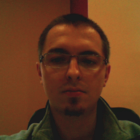
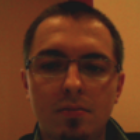
updated photos

diff --git a/index.html b/index.html
@@ -503,7 +503,7 @@
 					<!-- Start Members List -->
 					<ul class="testimonials">
 						<li class="current">
-							<a data-testimonial="software developer, python + js" data-author="Bartłomiej"><img src="/images/guys/bartlomiejborzucki.jpg" alt=""></a>
+							<a data-testimonial="software developer, python + js" data-author="Bartłomiej"><img src="/images/guys/bartlomiejborzucki.png" alt=""></a>
 						</li>
 						<li>
 							<a data-testimonial="trainer, front-end developer, js" data-author="Bartosz"><img src="/images/guys/bartoszkrupa.jpg" alt=""></a>
@@ -521,7 +521,7 @@
 							<a data-testimonial="software developer, python + js" data-author="Marek"><img src="/images/guys/firemark.jpg" alt=""></a>
 						</li>
 						<li>
-							<a data-testimonial="front-end developer, js" data-author="Grzegorz"><img src="/images/guys/grzegorzjudas.jpg" alt=""></a>
+							<a data-testimonial="front-end developer, js" data-author="Grzegorz"><img src="/images/guys/grzegorzjudas.png" alt=""></a>
 						</li>
 						<li>
 							<a data-testimonial="front-end developer, js" data-author="Jakub"><img src="/images/guys/jakubsawicki.png" alt=""></a>
@@ -532,15 +532,15 @@
 							</a>
 						</li>
 						<li>
-							<a data-testimonial="video, director" data-author="Paweł"><img src="/images/guys/pawelorlicz.jpg" alt=""></a>
+							<a data-testimonial="video, director" data-author="Paweł"><img src="/images/guys/pawelorlicz.png" alt=""></a>
 						</li>
 						<li>
-							<a data-testimonial="co-founder" data-author="Krzysztof" data-url="mailto:chris@skygatedigital.co.uk" data-url-text="krzysztof.parjaszewski@skygatedigital.co.uk">
-								<img src="/images/guys/krzysztofp.jpg" alt="">
+							<a data-testimonial="co-founder, it manager" data-author="Krzysztof" data-url="mailto:chris@skygatedigital.co.uk" data-url-text="krzysztof.parjaszewski@skygatedigital.co.uk">
+								<img src="/images/guys/krzysztofparjaszewski.png" alt="">
 							</a>
 						</li>
 						<li>
-							<a data-testimonial="system administrator" data-author="Maciej"><img src="/images/guys/maciejczarnecki.jpg" alt=""></a>
+							<a data-testimonial="system administrator" data-author="Maciej"><img src="/images/guys/maciejczarnecki.png" alt=""></a>
 						</li>
 						<li>
 							<a data-testimonial="back-end developer, php" data-author="Maciej"><img src="/images/guys/maciejmiara.jpg" alt=""></a>
@@ -556,7 +556,7 @@
 						</li>
 						<li>
 							<a data-testimonial="project manager, web developer, js + php" data-author="Marlena">
-								<img src="/images/guys/marlenastaszek.jpg" alt="">
+								<img src="/images/guys/marlenastaszek.png" alt="">
 							</a>
 						</li>
 						<li>
@@ -591,8 +591,8 @@
 							</a>
 						</li>
 						<li>
-							<a data-testimonial="co-founder" data-author="Łukasz" data-url="mailto:lukasz.werka@skygatedigital.co.uk" data-url-text="lukasz.werka@skygatedigital.co.uk">
-								<img src="/images/guys/werka.jpg" alt="">
+							<a data-testimonial="co-founder, art-director" data-author="Łukasz" data-url="mailto:lukasz.werka@skygatedigital.co.uk" data-url-text="lukasz.werka@skygatedigital.co.uk">
+								<img src="/images/guys/lukaszwerka.png" alt="">
 							</a>
 						</li>
 						<li>
